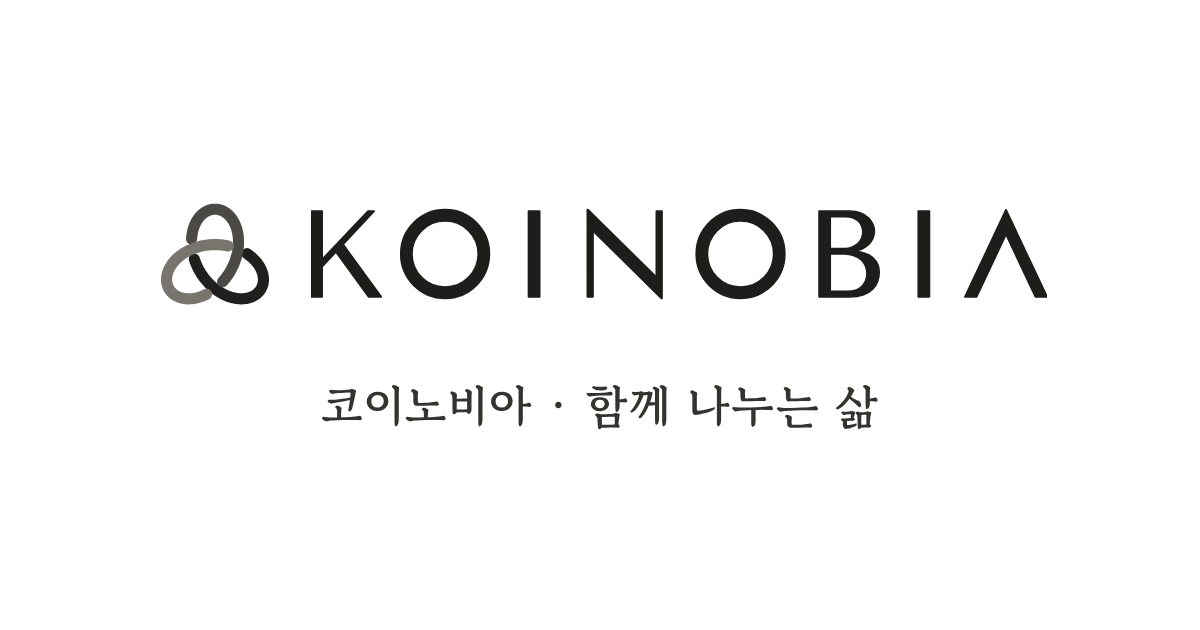
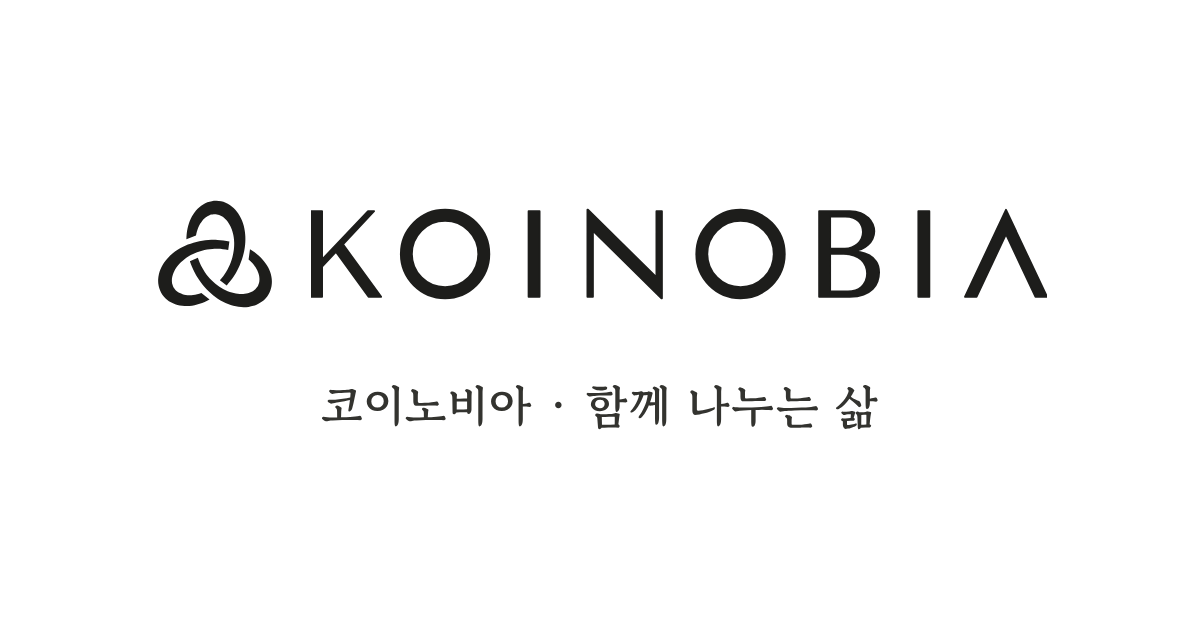
코이노비아 매듭을 굵기가 달라지는 띠(Codex 시안 B)로 바꾼다
- tools/knot-symbol.svg: 매듭 원본(koinobia-content#27 시안 B)
- make-images.js: 파비콘·미리보기·메뉴 로고를 원본에서 먹 한 가지로 만든다
- make-logo.py: 로고 파일의 매듭도 원본에서
- 다시 만든 icons/favicon.*, icons/logo/koinobia-logo*.svg, og.png, tabs.js LOGO
- 첫 화면의 큰 매듭(움직이는 그림)은 그대로

Claude-Session: https://claude.ai/code/session_0164q8wPWg7Bqm5B7nFz3wqs

Changed region(s): [[0.1233, 0.3016, 0.2467, 0.5127]]

diff --git a/tabs.js b/tabs.js
@@ -29,7 +29,7 @@
 
   // 코이노비아 로고(먹 세 톤 매듭). tools/make-images.js가 이 줄을 만들어 끼워요. 손으로 고치지 마세요.
   // 색은 --logo-1·2·3(index.html·page.css)이라 밝은/어두운 화면에 맞춰 바뀌어요. 홈도 window.KOINOBIA_LOGO로 같은 로고를 써요
-  var LOGO = '<svg viewBox="0 0 100 100" aria-hidden="true"><g fill="none" stroke-width="9.5" stroke-linecap="round" stroke-linejoin="round"><path stroke="var(--logo-1)" d="M77.0 49.7L77.6 50.1L78.2 50.5L78.7 50.9L79.3 51.3L79.8 51.8L80.4 52.2L80.9 52.6L81.4 53.1L81.9 53.5L82.4 53.9L82.8 54.4L83.3 54.9L83.7 55.3L84.2 55.8L84.6 56.3L85.0 56.8L85.4 57.2L85.8 57.7L86.2 58.2L86.5 58.7L86.9 59.2L87.2 59.7L87.5 60.2L87.8 60.7L88.1 61.2L88.4 61.8L88.7 62.3L88.9 62.8L89.2 63.3L89.4 63.8L89.6 64.3L89.8 64.9L90.0 65.4L90.1 65.9L90.3 66.4L90.4 66.9L90.5 67.4L90.6 68.0L90.7 68.5L90.8 69.0L90.9 69.5L90.9 70.0L91.0 70.5L91.0 71.0L91.0 71.5L91.0 72.0L91.0 72.5L90.9 73.0L90.9 73.5L90.8 74.0L90.8 74.5L90.7 74.9L90.6 75.4L90.4 75.9L90.3 76.3L90.2 76.8L90.0 77.2L89.8 77.7L89.6 78.1L89.4 78.5L89.2 79.0L89.0 79.4L88.8 79.8L88.5 80.2L88.3 80.6L88.0 80.9L87.7 81.3L87.4 81.7L87.1 82.0L86.8 82.4L86.4 82.7L86.1 83.1L85.7 83.4L85.4 83.7L85.0 84.0L84.6 84.3L84.2 84.6L83.8 84.8L83.3 85.1L82.9 85.4L82.5 85.6L82.0 85.8L81.6 86.0L81.1 86.3L80.6 86.5L80.1 86.6L79.6 86.8L79.1 87.0L78.6 87.1L78.1 87.3L77.6 87.4L77.0 87.5L76.5 87.6L75.9 87.7L75.4 87.7L74.8 87.8L74.3 87.9L73.7 87.9L73.1 87.9L72.5 87.9L71.9 87.9L71.3 87.9L70.7 87.9L70.1 87.8L69.5 87.8L68.9 87.7L68.3 87.6L67.7 87.6L67.1 87.4L66.4 87.3L65.8 87.2L65.2 87.0L64.6 86.9L63.9 86.7L63.3 86.5L62.7 86.3L62.0 86.1L61.4 85.9L60.8 85.7L60.1 85.4L59.5 85.1L58.9 84.9L58.3 84.6L57.6 84.3L57.0 84.0L56.4 83.6L55.7 83.3L55.1 83.0L54.5 82.6L53.9 82.2L53.3 81.8L52.7 81.4L52.1 81.0L51.5 80.6L50.9 80.2L50.3 79.7L49.7 79.3L49.1 78.8L48.5 78.3L47.9 77.8L47.4 77.3L46.8 76.8L46.3 76.3L45.7 75.8L45.2 75.2L44.6 74.7L44.1 74.1L43.6 73.5L43.1 73.0L42.6 72.4L42.1 71.8L41.6 71.2L41.1 70.6L40.6 70.0L40.2 69.3L39.7 68.7L39.3 68.1L38.8 67.4L38.4 66.7L38.0 66.1L37.6 65.4L37.2 64.7L36.8 64.1L36.4 63.4L36.0 62.7L35.7 62.0L35.3 61.3L35.0 60.6L34.6 59.9L34.3 59.2L34.0 58.4L33.7 57.7L33.4 57.0L33.2 56.3L32.9 55.5L32.6 54.8L32.5 54.3"/><path stroke="var(--logo-2)" d="M30.2 37.3L30.2 36.6L30.3 35.9L30.4 35.2L30.4 34.5L30.5 33.8L30.6 33.1L30.7 32.5L30.9 31.8L31.0 31.2L31.1 30.5L31.3 29.9L31.5 29.3L31.7 28.6L31.8 28.0L32.0 27.4L32.3 26.8L32.5 26.2L32.7 25.7L33.0 25.1L33.2 24.5L33.5 24.0L33.7 23.5L34.0 22.9L34.3 22.4L34.6 21.9L34.9 21.4L35.2 20.9L35.5 20.4L35.9 20.0L36.2 19.5L36.5 19.1L36.9 18.7L37.3 18.2L37.6 17.8L38.0 17.5L38.4 17.1L38.8 16.7L39.2 16.4L39.6 16.0L40.0 15.7L40.4 15.4L40.8 15.1L41.2 14.8L41.6 14.5L42.1 14.3L42.5 14.0L42.9 13.8L43.4 13.6L43.8 13.4L44.3 13.2L44.7 13.0L45.2 12.9L45.6 12.7L46.1 12.6L46.6 12.5L47.0 12.4L47.5 12.3L48.0 12.2L48.4 12.1L48.9 12.1L49.4 12.1L49.8 12.1L50.3 12.1L50.8 12.1L51.3 12.1L51.7 12.2L52.2 12.2L52.7 12.3L53.1 12.4L53.6 12.5L54.1 12.6L54.5 12.8L55.0 12.9L55.4 13.1L55.9 13.2L56.3 13.4L56.8 13.6L57.2 13.9L57.6 14.1L58.1 14.3L58.5 14.6L58.9 14.9L59.4 15.2L59.8 15.5L60.2 15.8L60.6 16.1L61.0 16.5L61.4 16.8L61.8 17.2L62.1 17.6L62.5 18.0L62.9 18.4L63.2 18.8L63.6 19.2L63.9 19.7L64.3 20.1L64.6 20.6L64.9 21.1L65.2 21.6L65.5 22.1L65.8 22.6L66.1 23.1L66.4 23.6L66.6 24.2L66.9 24.7L67.1 25.3L67.4 25.9L67.6 26.4L67.8 27.0L68.0 27.6L68.2 28.2L68.4 28.9L68.6 29.5L68.7 30.1L68.9 30.7L69.0 31.4L69.2 32.0L69.3 32.7L69.4 33.4L69.5 34.0L69.6 34.7L69.7 35.4L69.7 36.1L69.8 36.8L69.8 37.5L69.9 38.2L69.9 38.9L69.9 39.6L69.9 40.3L69.9 41.1L69.8 41.8L69.8 42.5L69.7 43.2L69.7 44.0L69.6 44.7L69.5 45.4L69.4 46.2L69.3 46.9L69.2 47.7L69.0 48.4L68.9 49.1L68.7 49.9L68.6 50.6L68.4 51.4L68.2 52.1L68.0 52.8L67.7 53.6L67.5 54.3L67.3 55.0L67.0 55.8L66.8 56.5L66.5 57.2L66.2 58.0L65.9 58.7L65.6 59.4L65.3 60.1L64.9 60.8L64.6 61.5L64.2 62.2L63.9 62.9L63.5 63.6L63.1 64.3L62.7 65.0L62.3 65.6L61.9 66.3L61.5 67.0L61.0 67.6L60.6 68.3L60.1 68.9L59.7 69.5L59.2 70.2L58.7 70.8L58.3 71.4L57.8 72.0L57.3 72.6L56.8 73.2L56.4 73.5"/><path stroke="var(--logo-3)" d="M42.8 84.1L42.2 84.4L41.5 84.7L40.9 85.0L40.3 85.2L39.6 85.5L39.0 85.7L38.4 86.0L37.7 86.2L37.1 86.4L36.5 86.6L35.9 86.8L35.2 86.9L34.6 87.1L34.0 87.2L33.3 87.4L32.7 87.5L32.1 87.6L31.5 87.7L30.9 87.8L30.3 87.8L29.7 87.9L29.1 87.9L28.5 87.9L27.9 87.9L27.3 87.9L26.7 87.9L26.1 87.9L25.6 87.8L25.0 87.8L24.4 87.7L23.9 87.6L23.3 87.6L22.8 87.5L22.3 87.3L21.7 87.2L21.2 87.1L20.7 86.9L20.2 86.8L19.7 86.6L19.2 86.4L18.8 86.2L18.3 86.0L17.8 85.8L17.4 85.5L16.9 85.3L16.5 85.0L16.1 84.8L15.7 84.5L15.3 84.2L14.9 83.9L14.5 83.6L14.2 83.3L13.8 83.0L13.5 82.6L13.1 82.3L12.8 81.9L12.5 81.6L12.2 81.2L11.9 80.8L11.6 80.4L11.4 80.0L11.1 79.6L10.9 79.2L10.7 78.8L10.5 78.4L10.3 78.0L10.1 77.5L9.9 77.1L9.8 76.6L9.6 76.2L9.5 75.7L9.4 75.3L9.3 74.8L9.2 74.3L9.1 73.8L9.1 73.3L9.0 72.9L9.0 72.4L9.0 71.9L9.0 71.4L9.0 70.9L9.0 70.4L9.1 69.8L9.1 69.3L9.2 68.8L9.3 68.3L9.4 67.8L9.5 67.3L9.6 66.8L9.8 66.2L9.9 65.7L10.1 65.2L10.3 64.7L10.5 64.2L10.7 63.6L10.9 63.1L11.2 62.6L11.4 62.1L11.7 61.6L12.0 61.1L12.3 60.6L12.6 60.1L12.9 59.6L13.2 59.0L13.6 58.6L14.0 58.1L14.3 57.6L14.7 57.1L15.1 56.6L15.5 56.1L16.0 55.6L16.4 55.2L16.9 54.7L17.3 54.2L17.8 53.8L18.3 53.3L18.8 52.9L19.3 52.5L19.8 52.0L20.3 51.6L20.9 51.2L21.4 50.8L22.0 50.4L22.6 50.0L23.2 49.6L23.8 49.2L24.4 48.9L25.0 48.5L25.6 48.1L26.2 47.8L26.9 47.5L27.5 47.1L28.2 46.8L28.9 46.5L29.5 46.2L30.2 45.9L30.9 45.6L31.6 45.4L32.3 45.1L33.0 44.8L33.7 44.6L34.5 44.4L35.2 44.2L35.9 43.9L36.7 43.7L37.4 43.6L38.1 43.4L38.9 43.2L39.7 43.1L40.4 42.9L41.2 42.8L41.9 42.7L42.7 42.5L43.5 42.4L44.3 42.3L45.0 42.3L45.8 42.2L46.6 42.1L47.4 42.1L48.2 42.1L49.0 42.0L49.7 42.0L50.5 42.0L51.3 42.1L52.1 42.1L52.9 42.1L53.7 42.2L54.4 42.2L55.2 42.3L56.0 42.4L56.8 42.5L57.5 42.6L58.3 42.7L59.1 42.8L59.8 43.0L60.6 43.1L61.1 43.2"/></g></svg>';
+  var LOGO = '<svg viewBox="0 0 100 100" aria-hidden="true"><g transform="translate(-1.15 -1.35) scale(0.20083)" fill="currentColor"><path d="M199.83 412.89 C194.17 414.99 188.52 416.70 182.97 418.05 C177.42 419.39 171.95 420.36 166.63 420.97 C161.32 421.58 156.15 421.83 151.18 421.75 C146.21 421.67 141.45 421.26 136.93 420.55 C132.41 419.84 128.15 418.84 124.17 417.59 C120.19 416.34 116.49 414.85 113.10 413.16 C109.71 411.47 106.62 409.59 103.82 407.56 C101.03 405.54 98.54 403.37 96.33 401.10 C94.11 398.83 92.17 396.45 90.48 393.98 C88.80 391.50 87.35 388.94 86.13 386.27 C84.92 383.61 83.92 380.84 83.14 377.95 C82.36 375.07 81.80 372.05 81.48 368.90 C81.15 365.75 81.06 362.46 81.23 359.02 C81.39 355.58 81.83 352.00 82.56 348.29 C83.29 344.58 84.32 340.75 85.67 336.81 C87.03 332.88 88.71 328.85 90.74 324.77 C92.77 320.69 95.15 316.56 97.88 312.42 C100.61 308.28 103.70 304.14 107.13 300.06 C110.57 295.97 114.36 291.93 118.49 287.99 C122.62 284.05 127.09 280.22 131.88 276.54 C136.66 272.85 141.76 269.32 147.15 265.99 C152.54 262.65 158.21 259.51 164.13 256.61 C170.05 253.72 176.22 251.05 182.59 248.67 C188.96 246.28 195.53 244.16 202.26 242.35 C208.99 240.54 215.88 239.03 222.86 237.84 C229.85 236.65 236.93 235.78 244.07 235.25 C251.20 234.72 258.38 234.52 265.54 234.67 C272.71 234.82 279.86 235.30 286.95 236.13 C294.03 236.95 301.04 238.11 307.93 239.60 L312.63 205.10 C304.77 203.44 296.79 202.09 288.74 201.07 C280.69 200.04 272.57 199.33 264.42 198.95 C256.28 198.57 248.10 198.52 239.94 198.80 C231.78 199.07 223.63 199.68 215.55 200.62 C207.46 201.56 199.43 202.83 191.51 204.43 C183.59 206.02 175.77 207.95 168.09 210.20 C160.42 212.45 152.90 215.02 145.57 217.90 C138.24 220.79 131.10 223.98 124.20 227.48 C117.30 230.97 110.64 234.76 104.26 238.84 C97.87 242.91 91.77 247.27 85.99 251.88 C80.22 256.50 74.76 261.37 69.67 266.48 C64.59 271.59 59.86 276.93 55.55 282.48 C51.24 288.03 47.33 293.78 43.88 299.70 C40.42 305.61 37.42 311.70 34.91 317.90 C32.40 324.11 30.38 330.43 28.89 336.82 C27.40 343.21 26.45 349.66 26.06 356.09 C25.66 362.53 25.84 368.96 26.59 375.28 C27.34 381.60 28.68 387.82 30.58 393.84 C32.48 399.85 34.96 405.66 37.96 411.16 C40.96 416.66 44.49 421.85 48.49 426.65 C52.48 431.45 56.93 435.87 61.75 439.83 C66.57 443.80 71.76 447.32 77.24 450.37 C82.72 453.42 88.49 456.01 94.46 458.12 C100.44 460.23 106.62 461.87 112.95 463.05 C119.28 464.23 125.76 464.95 132.33 465.23 C138.90 465.51 145.56 465.34 152.28 464.75 C158.99 464.16 165.76 463.15 172.53 461.73 C179.31 460.31 186.10 458.48 192.87 456.27 C199.63 454.05 206.37 451.45 213.06 448.49 C219.74 445.52 226.37 442.18 232.90 438.50 Z"/><path d="M389.91 278.24 C394.56 282.10 398.86 286.13 402.80 290.27 C406.75 294.40 410.32 298.65 413.51 302.95 C416.69 307.25 419.50 311.60 421.91 315.95 C424.32 320.29 426.35 324.62 427.99 328.89 C429.63 333.15 430.90 337.35 431.81 341.42 C432.72 345.49 433.27 349.44 433.50 353.22 C433.74 357.00 433.66 360.62 433.30 364.05 C432.94 367.48 432.31 370.72 431.45 373.78 C430.59 376.83 429.50 379.70 428.20 382.40 C426.90 385.10 425.40 387.63 423.71 390.01 C422.01 392.40 420.11 394.65 418.00 396.77 C415.88 398.88 413.56 400.88 410.99 402.74 C408.42 404.60 405.62 406.32 402.56 407.89 C399.50 409.47 396.18 410.88 392.60 412.10 C389.02 413.32 385.19 414.35 381.10 415.14 C377.02 415.94 372.69 416.49 368.14 416.78 C363.59 417.06 358.82 417.07 353.87 416.77 C348.93 416.48 343.80 415.87 338.54 414.94 C333.28 414.01 327.89 412.74 322.41 411.13 C316.94 409.53 311.38 407.57 305.80 405.27 C300.22 402.97 294.61 400.32 289.02 397.32 C283.44 394.32 277.89 390.98 272.42 387.30 C266.95 383.62 261.56 379.61 256.31 375.29 C251.05 370.96 245.93 366.33 241.00 361.41 C236.07 356.48 231.31 351.28 226.79 345.82 C222.27 340.37 217.98 334.67 213.95 328.75 C209.92 322.84 206.17 316.72 202.71 310.45 C199.25 304.17 196.10 297.73 193.27 291.18 C190.44 284.64 187.94 277.98 185.78 271.27 L153.55 284.45 C156.05 292.09 158.87 299.67 162.01 307.16 C165.14 314.64 168.59 322.03 172.34 329.27 C176.08 336.52 180.12 343.62 184.44 350.55 C188.76 357.48 193.36 364.23 198.22 370.77 C203.07 377.30 208.19 383.62 213.53 389.68 C218.88 395.75 224.46 401.55 230.24 407.07 C236.03 412.59 242.01 417.82 248.18 422.73 C254.34 427.64 260.67 432.22 267.15 436.45 C273.63 440.68 280.24 444.55 286.96 448.04 C293.68 451.53 300.50 454.64 307.39 457.33 C314.27 460.03 321.22 462.32 328.19 464.17 C335.16 466.02 342.15 467.44 349.11 468.40 C356.07 469.36 363.00 469.87 369.86 469.90 C376.71 469.93 383.48 469.49 390.11 468.57 C396.74 467.64 403.22 466.22 409.50 464.32 C415.77 462.41 421.84 460.01 427.61 457.13 C433.38 454.25 438.86 450.89 443.96 447.08 C449.06 443.27 453.78 439.00 458.03 434.35 C462.29 429.69 466.08 424.65 469.34 419.29 C472.60 413.94 475.34 408.29 477.50 402.43 C479.66 396.57 481.26 390.51 482.28 384.36 C483.31 378.20 483.76 371.94 483.66 365.67 C483.56 359.39 482.92 353.11 481.76 346.88 C480.60 340.65 478.93 334.47 476.79 328.40 C474.64 322.33 472.03 316.36 468.99 310.53 C465.94 304.70 462.47 299.01 458.60 293.49 C454.73 287.97 450.47 282.62 445.85 277.46 C441.23 272.31 436.25 267.34 430.96 262.59 C425.66 257.83 420.03 253.30 414.12 248.99 C408.21 244.69 402.01 240.62 395.55 236.80 Z"/><path d="M178.26 180.96 C179.28 175.00 180.61 169.26 182.22 163.77 C183.84 158.29 185.73 153.08 187.86 148.17 C189.99 143.25 192.36 138.65 194.91 134.39 C197.47 130.13 200.21 126.21 203.08 122.65 C205.95 119.10 208.95 115.90 212.02 113.08 C215.10 110.26 218.24 107.81 221.40 105.71 C224.55 103.62 227.73 101.88 230.88 100.47 C234.03 99.07 237.15 97.99 240.22 97.21 C243.30 96.43 246.33 95.94 249.31 95.72 C252.30 95.49 255.24 95.52 258.16 95.80 C261.08 96.08 263.97 96.60 266.86 97.37 C269.75 98.14 272.64 99.16 275.53 100.45 C278.43 101.74 281.33 103.31 284.22 105.18 C287.11 107.04 289.99 109.21 292.84 111.69 C295.69 114.18 298.50 116.99 301.22 120.13 C303.95 123.27 306.60 126.74 309.12 130.54 C311.64 134.34 314.03 138.46 316.25 142.90 C318.46 147.33 320.51 152.07 322.33 157.10 C324.15 162.12 325.75 167.42 327.10 172.96 C328.44 178.51 329.53 184.30 330.33 190.28 C331.12 196.27 331.63 202.45 331.83 208.78 C332.02 215.12 331.90 221.60 331.45 228.17 C331.00 234.75 330.22 241.42 329.10 248.13 C327.99 254.85 326.53 261.60 324.74 268.33 C322.94 275.07 320.81 281.78 318.35 288.43 C315.88 295.07 313.09 301.64 309.98 308.08 C306.88 314.53 303.46 320.84 299.75 326.97 C296.04 333.11 292.04 339.06 287.79 344.78 C283.53 350.50 279.02 356.00 274.29 361.22 L301.82 382.54 C307.18 376.56 312.34 370.32 317.25 363.86 C322.16 357.41 326.84 350.73 331.24 343.86 C335.64 337.00 339.78 329.94 343.62 322.74 C347.46 315.53 351.00 308.17 354.24 300.70 C357.47 293.23 360.38 285.64 362.96 277.98 C365.54 270.32 367.78 262.58 369.66 254.82 C371.55 247.05 373.09 239.25 374.26 231.46 C375.42 223.67 376.23 215.89 376.65 208.16 C377.07 200.44 377.12 192.78 376.78 185.21 C376.45 177.65 375.72 170.18 374.62 162.87 C373.51 155.56 372.01 148.40 370.13 141.44 C368.25 134.48 365.99 127.72 363.34 121.21 C360.69 114.70 357.67 108.44 354.27 102.49 C350.87 96.54 347.10 90.90 342.99 85.62 C338.87 80.34 334.40 75.43 329.61 70.95 C324.82 66.47 319.71 62.42 314.34 58.86 C308.96 55.30 303.30 52.24 297.45 49.73 C291.60 47.22 285.55 45.26 279.39 43.91 C273.23 42.55 266.96 41.79 260.70 41.64 C254.43 41.49 248.17 41.95 242.02 43.01 C235.86 44.06 229.82 45.71 223.97 47.90 C218.12 50.09 212.48 52.83 207.09 56.05 C201.71 59.27 196.59 62.97 191.78 67.09 C186.96 71.21 182.45 75.75 178.26 80.64 C174.07 85.53 170.21 90.78 166.69 96.33 C163.16 101.88 159.97 107.73 157.12 113.84 C154.28 119.95 151.77 126.32 149.62 132.90 C147.46 139.48 145.64 146.27 144.18 153.24 C142.71 160.20 141.59 167.34 140.82 174.61 C140.05 181.88 139.62 189.29 139.55 196.79 Z"/></g></svg>';
   // 영문 워드마크 KOINOBIA(고리 O, 가로획 없는 A). icons/logo/koinobia-wordmark.svg에서 tools/make-images.js가 만들어 끼워요. 손으로 고치지 마세요.
   // 색은 currentColor라 글자색(--ink)을 따라 밝은/어두운 화면에 맞춰 바뀌어요
   var WORDMARK = '<svg class="wm" viewBox="0 -26 6024 752" aria-hidden="true"><g fill="currentColor" stroke="currentColor" stroke-width="14" stroke-linejoin="round"><path d="M0 700H91V454L204 333L470 700H574L262 271L516 0H466L91 394V0H0Z"/><path d="M1778 0V700H1869V0Z"/><path d="M2823 0V535H2819L2264 -12H2259V700H2305V165H2309L2864 712H2869V0Z"/><path d="M4153 700H4404Q4471 700 4517.0 682.5Q4563 665 4591.0 637.0Q4619 609 4631.5 573.5Q4644 538 4644 502Q4644 445 4619.5 411.0Q4595 377 4561.0 359.0Q4527 341 4491.0 335.0Q4455 329 4433 328V324Q4468 324 4499.0 310.5Q4530 297 4553.5 275.5Q4577 254 4591.0 225.5Q4605 197 4605 165Q4605 137 4593.0 108.0Q4581 79 4556.5 55.0Q4532 31 4493.5 15.5Q4455 0 4403 0H4153ZM4244 656V350H4354Q4403 350 4439.0 363.0Q4475 376 4498.5 398.0Q4522 420 4533.5 449.0Q4545 478 4545 510Q4545 545 4532.5 572.0Q4520 599 4499.0 618.0Q4478 637 4449.5 646.5Q4421 656 4389 656ZM4244 306V44H4366Q4405 44 4432.5 55.0Q4460 66 4477.5 84.0Q4495 102 4503.0 125.0Q4511 148 4511 171Q4511 200 4499.5 225.0Q4488 250 4467.5 268.0Q4447 286 4420.5 296.0Q4394 306 4364 306Z"/><path d="M4964 0V700H5055V0Z"/><path d="M5345 700 L5681 -12 L6017 700 L5921.4 700 L5681 190.6 L5440.6 700Z"/></g><g fill="none" stroke="currentColor" stroke-width="105"><circle cx="1096" cy="350" r="316.5"/><circle cx="3511" cy="350" r="316.5"/></g></svg>';

diff --git a/tools/make-images.js b/tools/make-images.js
@@ -4,7 +4,8 @@
 //  - tabs.js의 LOGO : 위쪽 메뉴와 맨 아래에 나오는 작은 로고(네 페이지 공통)
 //  - tabs.js의 WORDMARK : 로고 옆 영문 워드마크 KOINOBIA. icons/logo/koinobia-wordmark.svg(tools/make-logo.py가 만듦)에서 가져와요
 // 로고는 "엮인 세 고리 매듭": 끊기지 않는 한 줄이 세 고리를 이루고, 교차점마다 아래로 지나는 줄만 끊어 보여요.
-// 세 고리는 성부·성자·성령, 그리고 세 앱을 뜻해요. 고리마다 먹의 진하기를 달리해(먹 세 톤) 셋이면서 하나로 보이게 해요.
+// 세 고리는 성부·성자·성령, 그리고 세 앱을 뜻해요. 2026-11-22부터 먹 한 가지로, 굵기가 달라지는 띠(채운 면)로 그려요.
+// 매듭 모양의 원본은 tools/knot-symbol.svg예요(koinobia-content의 Codex 시안 B, 512×512, path 세 개). 모양을 바꾸려면 그 파일을 바꿔요.
 // 다시 만들 때: 저장소 맨 위에서  node tools/make-images.js
 // (Playwright가 설치된 곳에서 실행해요.)
 const fs = require('fs'), path = require('path');
@@ -12,87 +13,33 @@ const root = path.join(__dirname, '..');
 let chromium;
 try { ({ chromium } = require('playwright')); } catch (e) { ({ chromium } = require('/opt/node-tools/node_modules/playwright')); }
 
-// 먹 세 톤. 밝은 화면용과 어두운 화면용. index.html·page.css의 --logo-1·2·3과 같은 값이에요
-const TONES = ['#1F1F1D', '#4A4945', '#77756E'];
-const TONES_DARK = ['#F2F2EE', '#C9C8C2', '#A09E97'];
-const PAGE = '#FFFFFF', INK = '#1D1D1B', ACCENT = '#33332F';
+// 먹색. 밝은 화면용과 어두운 화면용
+const INK = '#1D1D1B', INK_DARK = '#ECECE8', PAGE = '#FFFFFF', ACCENT = '#33332F';
 
-// 삼엽 매듭 한 바퀴를 점으로 찍고, 교차점에서 아래로 지나는 줄을 끊은 뒤, 고리(톤)별 선 조각(path) 세 개로 돌려준다.
-// size: 매듭 가로 폭(선 중심 기준), sw: 선 굵기, (cx, cy): 가운데. 고리 하나가 위로 솟은 모양이에요.
-function knotPaths(size, sw, cx, cy) {
-  const N = 1800, raw = [];
-  for (let i = 0; i < N; i++) {
-    const t = 2 * Math.PI * i / N;
-    raw.push([Math.sin(t) + 2 * Math.sin(2 * t), Math.cos(t) - 2 * Math.cos(2 * t), -Math.sin(3 * t)]);
-  }
-  const xs = raw.map(p => p[0]), ys = raw.map(p => p[1]);
-  const x0 = Math.min(...xs), x1 = Math.max(...xs), y0 = Math.min(...ys), y1 = Math.max(...ys);
-  const k = size / (x1 - x0);
-  const pts = raw.map(p => [cx + (p[0] - (x0 + x1) / 2) * k, cy + (p[1] - (y0 + y1) / 2) * k]);
-  const z = raw.map(p => p[2]);
-  // 교차점 찾기(선분끼리 만나는 곳)
-  const seg = (p, q, r, s) => {
-    const d = (q[0] - p[0]) * (s[1] - r[1]) - (q[1] - p[1]) * (s[0] - r[0]);
-    if (Math.abs(d) < 1e-12) return false;
-    const a = ((r[0] - p[0]) * (s[1] - r[1]) - (r[1] - p[1]) * (s[0] - r[0])) / d;
-    const b = ((r[0] - p[0]) * (q[1] - p[1]) - (r[1] - p[1]) * (q[0] - p[0])) / d;
-    return a >= 0 && a < 1 && b >= 0 && b < 1;
-  };
-  const hits = [];
-  for (let i = 0; i < N; i++) for (let j = i + 20; j < N; j++) {
-    if (i === 0 && j > N - 20) continue;
-    if (seg(pts[i], pts[(i + 1) % N], pts[j], pts[(j + 1) % N])) hits.push([i, j]);
-  }
-  if (hits.length !== 3) throw new Error('교차점이 3개가 아니에요: ' + hits.length);
-  // 교차점에서 깊이(z)가 낮은 줄이 아래로 지나가요. 그러면 위·아래가 번갈아 나와요
-  const under = hits.map(([i, j]) => (z[i] < z[j] ? i : j));
-  // 아래 줄은 교차점 앞뒤로 같은 길이만 끊는다(끊는 길이 합 = 선 굵기의 약 1.8배)
-  const half = sw * 0.9;
-  const cum = [0];
-  for (let i = 1; i < N; i++) cum.push(cum[i - 1] + Math.hypot(pts[i][0] - pts[i - 1][0], pts[i][1] - pts[i - 1][1]));
-  const per = cum[N - 1] + Math.hypot(pts[0][0] - pts[N - 1][0], pts[0][1] - pts[N - 1][1]);
-  const cut = new Array(N).fill(false);
-  under.forEach(u => {
-    for (let i = 0; i < N; i++) {
-      let d = Math.abs(cum[i] - cum[u]); d = Math.min(d, per - d);
-      if (d < half) cut[i] = true;
-    }
-  });
-  // 끊긴 곳에서 출발해 한 바퀴 돌면 줄이 세 조각으로 나뉘어요. 조각마다 톤 하나씩 칠해요.
-  // 톤이 바뀌는 자리가 늘 다른 줄 밑으로 들어가는 곳이라, 이음매가 보이지 않아요
-  const st = cut.indexOf(true);
-  const runs = [];
-  let cur = null;
-  for (let n = 0; n < N; n++) {
-    const i = (st + n) % N;
-    if (cut[i]) { cur = null; continue; }
-    if (!cur) runs.push(cur = []);
-    cur.push(pts[i]);
-  }
-  if (runs.length !== 3) throw new Error('줄 조각이 3개가 아니에요: ' + runs.length);
-  const fmt = r => 'M' + r.filter((_, n) => n % 3 === 0 || n === r.length - 1).map(p => p[0].toFixed(1) + ' ' + p[1].toFixed(1)).join('L');
-  return runs.map(fmt);
+// 매듭 원본 읽기: path 세 개와, 먹이 칠해진 범위(제어점 기준)
+const SYM_SRC = fs.readFileSync(path.join(__dirname, 'knot-symbol.svg'), 'utf8');
+const SYM_D = [...SYM_SRC.matchAll(/ d="([^"]+)"/g)].map(m => m[1]);
+if (SYM_D.length !== 3) throw new Error('tools/knot-symbol.svg에서 path 세 개를 찾지 못했어요');
+const nums = SYM_D.join(' ').match(/-?\d+(?:\.\d+)?/g).map(Number);
+const SX = nums.filter((_, i) => i % 2 === 0), SY = nums.filter((_, i) => i % 2 === 1);
+const BOX = { x0: Math.min(...SX), x1: Math.max(...SX), y0: Math.min(...SY), y1: Math.max(...SY) };
+
+// 매듭을 가로 폭 size로, 가운데를 (cx, cy)에 놓은 <g>. attr로 색을 정해요(fill="..." 또는 class="...")
+function markFill(attr, size, cx, cy) {
+  const k = size / (BOX.x1 - BOX.x0);
+  const tx = cx - k * (BOX.x0 + BOX.x1) / 2, ty = cy - k * (BOX.y0 + BOX.y1) / 2;
+  return `<g transform="translate(${tx.toFixed(2)} ${ty.toFixed(2)}) scale(${k.toFixed(5)})" ${attr}>` + SYM_D.map(d => `<path d="${d}"/>`).join('') + '</g>';
 }
 
-// 고리 셋을 각자의 색으로 그린 <g>. colors는 색 값 셋이나 CSS 변수 셋(null이면 class="t0"~"t2"로 색을 정해요)
-const markG = (colors, size, sw, cx, cy) =>
-  `<g fill="none" stroke-width="${sw}" stroke-linecap="round" stroke-linejoin="round">` +
-  knotPaths(size, sw, cx, cy).map((d, t) => `<path ${colors ? `stroke="${colors[t]}"` : `class="t${t}"`} d="${d}"/>`).join('') + '</g>';
-
-// 탭 아이콘(SVG): 배경 없이 매듭만. 선을 조금 굵게 해서 작게 줄여도 또렷해요.
-// 브라우저가 어두운 모드면 밝은 톤으로 바뀌어요
-const FAV_SIZE = 440, FAV_SW = 60;
-const favicon = `<svg viewBox="0 0 512 512" xmlns="http://www.w3.org/2000/svg"><style>` +
-  TONES.map((c, i) => `.t${i}{stroke:${c}}`).join('') +
-  `@media (prefers-color-scheme: dark){` + TONES_DARK.map((c, i) => `.t${i}{stroke:${c}}`).join('') + `}</style>` +
-  markG(null, FAV_SIZE, FAV_SW, 256, 256) +
-  `</svg>\n`;
+// 탭 아이콘(SVG): 배경 없이 매듭만. 브라우저가 어두운 모드면 밝은 먹색으로 바뀌어요
+const favicon = `<svg viewBox="0 0 512 512" xmlns="http://www.w3.org/2000/svg"><style>.ink{fill:${INK}}@media (prefers-color-scheme: dark){.ink{fill:${INK_DARK}}}</style>` +
+  markFill('class="ink"', 480, 256, 256) + `</svg>\n`;
 // PNG 탭 아이콘(SVG를 못 쓰는 브라우저용): 어두운 탭에서도 보이게 흰 둥근 네모 위에 그려요
-const faviconPng = `<svg viewBox="0 0 512 512" xmlns="http://www.w3.org/2000/svg"><rect width="512" height="512" rx="112" fill="${PAGE}"/>${markG(TONES, 400, 56, 256, 256)}</svg>`;
+const faviconPng = `<svg viewBox="0 0 512 512" xmlns="http://www.w3.org/2000/svg"><rect width="512" height="512" rx="112" fill="${PAGE}"/>${markFill(`fill="${INK}"`, 410, 256, 256)}</svg>`;
 // 링크 미리보기용 매듭
-const markOg = `<svg viewBox="0 0 512 512" xmlns="http://www.w3.org/2000/svg">${markG(TONES, 400, 46, 256, 256)}</svg>`;
-// 메뉴·아래쪽 작은 로고: 색은 CSS 변수라 밝은/어두운 화면에 맞춰 바뀌어요
-const logoInline = `<svg viewBox="0 0 100 100" aria-hidden="true">${markG(['var(--logo-1)', 'var(--logo-2)', 'var(--logo-3)'], 82, 9.5, 50, 50)}</svg>`;
+const markOg = `<svg viewBox="0 0 512 512" xmlns="http://www.w3.org/2000/svg">${markFill(`fill="${INK}"`, 470, 256, 256)}</svg>`;
+// 메뉴·아래쪽 작은 로고: 색은 currentColor라 글자색(--ink)을 따라 밝은/어두운 화면에 맞춰 바뀌어요
+const logoInline = `<svg viewBox="0 0 100 100" aria-hidden="true">${markFill('fill="currentColor"', 92, 50, 50)}</svg>`;
 
 // 영문 워드마크: 로고 파일에서 바깥 여백(40)을 덜어 내고, 먹색을 currentColor로 바꿔 글자색을 따르게 해요
 const WM_FILE = path.join(root, 'icons/logo/koinobia-wordmark.svg');

diff --git a/index.html b/index.html
@@ -382,7 +382,7 @@ h1 { font-family: var(--f-display); font-weight: 700; font-size: clamp(3rem, 8vw
 </footer>
 
 <script src="site.js?v=20261116"></script>
-<script src="tabs.js?v=20261118"></script>
+<script src="tabs.js?v=20261122"></script>
 <script>
 (function () {
   var C = window.KOINOBIA || {}, APPS = C.apps || [];

diff --git a/news/index.html b/news/index.html
@@ -66,7 +66,7 @@
 </footer>
 <script src="/site.js?v=20261116"></script>
 <script src="/news.js?v=20261117-2"></script>
-<script src="/tabs.js?v=20261118"></script>
+<script src="/tabs.js?v=20261122"></script>
 <script>
 (function () {
   var NEWS = (window.KOINOBIA_NEWS || []).map(function (n, i) { n._i = i; return n; });

diff --git a/apps/index.html b/apps/index.html
@@ -47,7 +47,7 @@
   </div>
 </footer>
 <script src="/site.js?v=20261116"></script>
-<script src="/tabs.js?v=20261118"></script>
+<script src="/tabs.js?v=20261122"></script>
 <script>
 (function () {
   var C = window.KOINOBIA || {}, APPS = C.apps || [];

diff --git a/support/index.html b/support/index.html
@@ -92,7 +92,7 @@
   </div>
 </footer>
 <script src="/site.js?v=20261116"></script>
-<script src="/tabs.js?v=20261118"></script>
+<script src="/tabs.js?v=20261122"></script>
 <script>
 (function () {
   var C = window.KOINOBIA || {};

diff --git a/about/index.html b/about/index.html
@@ -116,6 +116,6 @@
   </div>
 </footer>
 <script src="/site.js?v=20261116"></script>
-<script src="/tabs.js?v=20261118"></script>
+<script src="/tabs.js?v=20261122"></script>
 </body>
 </html>

diff --git a/privacy/index.html b/privacy/index.html
@@ -256,6 +256,6 @@
   </div>
 </footer>
 <script src="/site.js?v=20261116"></script>
-<script src="/tabs.js?v=20261118"></script>
+<script src="/tabs.js?v=20261122"></script>
 </body>
 </html>

diff --git a/tools/make-logo.py b/tools/make-logo.py
@@ -1,14 +1,14 @@
 """코이노비아 로고 파일(icons/logo/*.svg)을 만드는 도구예요.
 
 확정안(2026-11-18): Tenor Sans 대문자 + 고리 O + 가로획 없는 A(Λ) + 자간 0.11em
-                    + 매듭 심볼 80%(글자 앞) + 중간 두께(+0.014em)
+                    + 매듭 심볼(글자 앞) + 중간 두께(+0.014em). 매듭은 2026-11-22부터 굵기가 달라지는 띠(Codex 시안 B), 먹 한 가지
 글자는 Tenor Sans 글꼴 파일에서 윤곽선을 꺼내 그림으로 바꾸므로, 만든 SVG는 글꼴 없이도 똑같이 보여요.
-매듭은 icons/favicon.svg(tools/make-images.js가 만듦)의 선을 그대로 가져와요.
+매듭은 tools/knot-symbol.svg(채운 면 path 세 개)를 그대로 가져와요.
 
 다시 만들 때(저장소 맨 위에서):
   pip install fonttools
   curl -o /tmp/TenorSans.ttf "https://fonts.gstatic.com/s/tenorsans/v21/bx6ANxqUneKx06UkIXISr3I.ttf"
-  python3 tools/make-logo.py /tmp/TenorSans.ttf icons/favicon.svg icons/logo
+  python3 tools/make-logo.py /tmp/TenorSans.ttf tools/knot-symbol.svg icons/logo
   node tools/make-images.js      # 메뉴 로고(tabs.js)와 링크 미리보기(og.png)에도 반영
 Tenor Sans는 SIL 오픈 폰트 라이선스(OFL)라 로고에 써도 돼요.
 """
@@ -28,13 +28,11 @@ TRACK = 110          # 자간 0.11em
 OVER = 12            # 둥근 글자의 위아래 넘침
 RING_OUT = CAP + 2 * OVER          # 고리 바깥 지름(굵기 보정 전)
 RING_SB = 50                       # 고리 좌우 여백(폰트의 O와 같음)
-KNOT_EM = 0.92                     # 심볼 크기 = 1.15em × 80%
+KNOT_H = 841                       # 심볼 잉크 높이(대문자 높이의 약 1.2배, 2026-11-18 확정 크기와 같게)
 GAP = 420                          # 심볼과 K 사이(잉크 기준)
 KERN = {('K', 'O'): -30, ('I', 'A'): -10}
 
 INK = {'light': '#1D1D1B', 'dark': '#ECECE8'}
-KNOT_TONES = {'light': ('#1F1F1D', '#4A4945', '#77756E'),
-              'dark': ('#F2F2EE', '#C9C8C2', '#A09E97')}
 
 font = TTFont(FONT)
 gs = font.getGlyphSet()
@@ -67,8 +65,12 @@ def open_a(x):
 
 
 def knot_paths():
+    # 매듭 원본(tools/knot-symbol.svg, 채운 면 path 세 개)과 먹이 칠해진 범위(제어점 기준)
     svg = open(FAVICON, encoding='utf-8').read()
-    return re.findall(r' d="([^"]+)"', svg)
+    ds = re.findall(r' d="([^"]+)"', svg)
+    n = [float(v) for v in re.findall(r'-?\d+(?:\.\d+)?', ' '.join(ds))]
+    xs, ys = n[0::2], n[1::2]
+    return ds, (min(xs), max(xs), min(ys), max(ys))
 
 
 def build(tone, with_knot):
@@ -76,10 +78,10 @@ def build(tone, with_knot):
     letters, rings = [], []
     x = 0.0
     if with_knot:
-        knot_px = KNOT_EM * 1000
-        k = knot_px / 512
-        knot_w = (506 - 6) * k            # 획 굵기를 포함한 실제 잉크 폭
-        kx, ky = -6 * k, CAP / 2 - 256 * k
+        kds, (bx0, bx1, by0, by1) = knot_paths()
+        k = KNOT_H / (by1 - by0)
+        knot_w = (bx1 - bx0) * k          # 실제 잉크 폭
+        kx, ky = -bx0 * k, CAP / 2 - (by0 + by1) / 2 * k
         x = knot_w + GAP - 120            # K의 왼쪽 여백(120)을 뺀다
     else:
         x = -120
@@ -106,18 +108,16 @@ def build(tone, with_knot):
     height = CAP + 2 * (OVER + BOLD + m)
     width = right + 2 * m
     if with_knot:
-        height = max(height, KNOT_EM * 1000 * (490 - 22) / 512 + 2 * m)
+        height = max(height, KNOT_H + 2 * m)
         top = CAP / 2 - height / 2
     out = []
     out.append('<svg xmlns="http://www.w3.org/2000/svg" viewBox="%s %s %s %s" role="img" aria-label="KOINOBIA 코이노비아">'
                % (fmt(left), fmt(top), fmt(width), fmt(height)))
     out.append('<title>코이노비아 KOINOBIA</title>')
     if with_knot:
-        t0, t1, t2 = KNOT_TONES[tone]
-        out.append('<g transform="translate(%s %s) scale(%s)" fill="none" stroke-width="60" stroke-linecap="round" stroke-linejoin="round">'
-                   % (fmt(kx), fmt(ky), ('%.5f' % k)))
-        for d, c in zip(knot_paths(), (t0, t1, t2)):
-            out.append('<path stroke="%s" d="%s"/>' % (c, d))
+        out.append('<g transform="translate(%s %s) scale(%s)" fill="%s">' % (fmt(kx), fmt(ky), ('%.5f' % k), ink))
+        for d in kds:
+            out.append('<path d="%s"/>' % d)
         out.append('</g>')
     out.append('<g fill="%s" stroke="%s" stroke-width="%d" stroke-linejoin="round">' % (ink, ink, BOLD))
     for d in letters:
